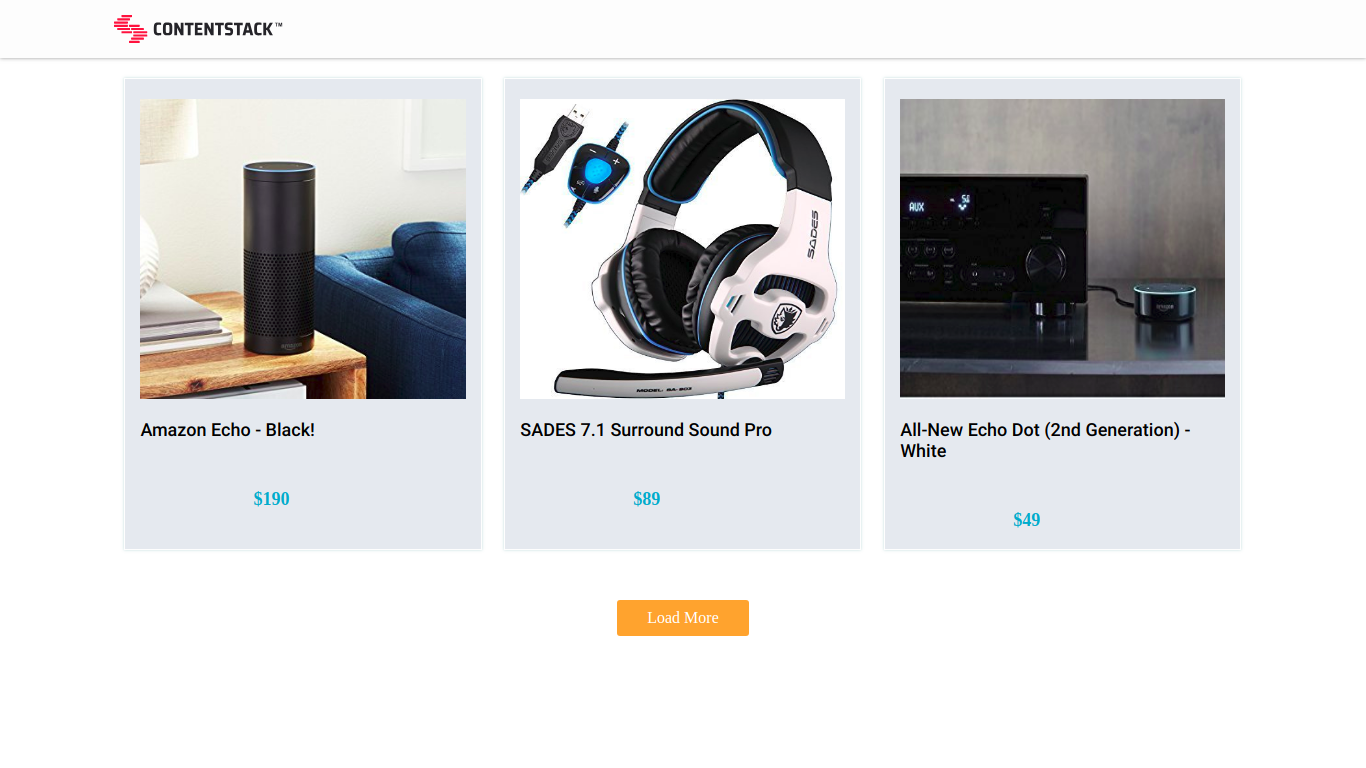
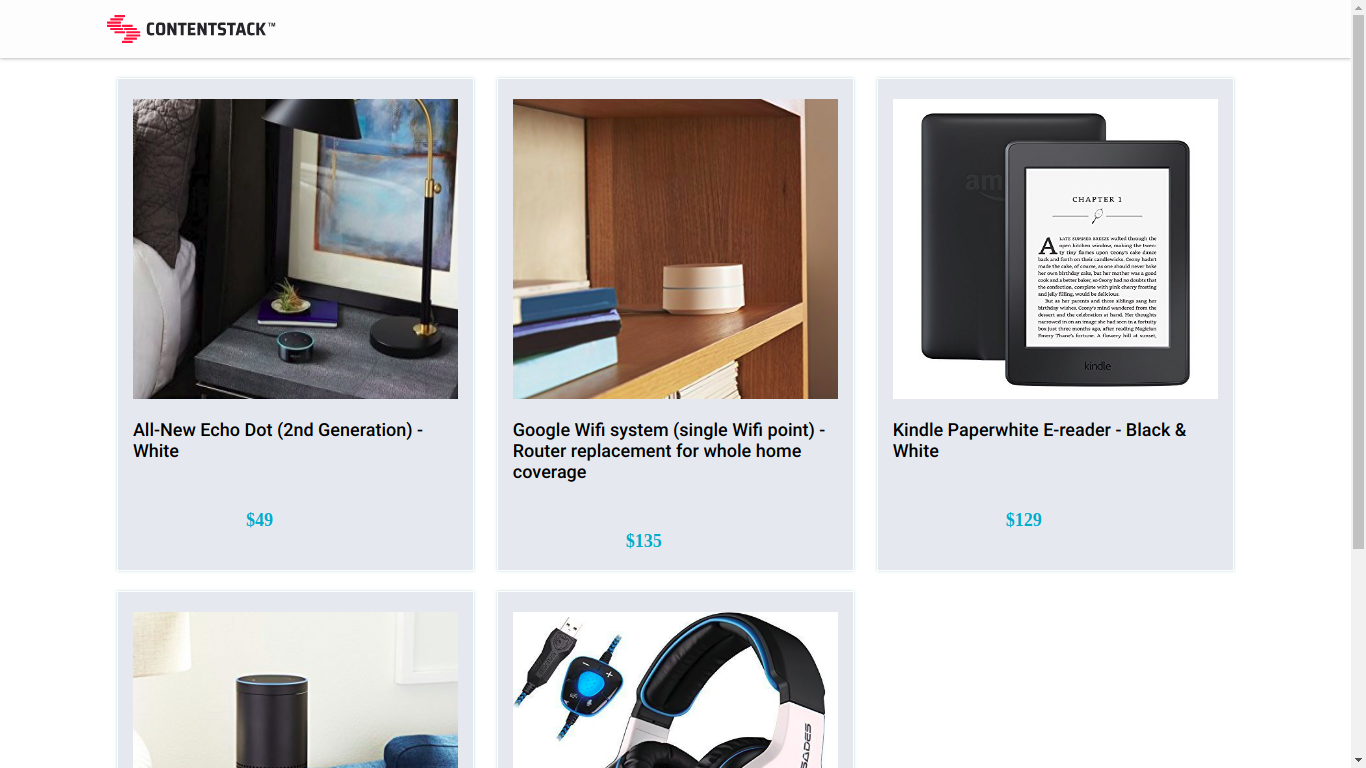
updated the README

diff --git a/app.js b/app.js
@@ -6,11 +6,11 @@ var { InMemoryCache } = require('apollo-cache-inmemory');
 var { HttpLink } = require('apollo-link-http');
 var  gql  = require("graphql-tag");
 var fetch = require('node-fetch');
-const port = process.env.PORT ||5000
+const port = process.env.PORT || 8000
 
 const cache = new InMemoryCache();
 const link = new HttpLink({
-  uri: 'https://dev-graphql.contentstack.io/stacks/***REMOVED***/explore?access_token=***REMOVED***&environment=production',
+  uri: "https://graphql.contentstack.com/stacks/blt292960b854e5170e?access_token=csf77a123fda5cc627a0363a49&environment=development",
   fetch
 })
 const client = new ApolloClient({
@@ -43,6 +43,7 @@ client
   } }`
   })
   .then(result =>{
+   // console.log("endpoint>>>>>>>>>", JSON.stringify(result, null, 0))
     res.render('./home', result)
   })
 );

diff --git a/views/js/script.js b/views/js/script.js
@@ -1,13 +1,12 @@
 $( document ).ready(function () {
     
-    $(".row li").slice(0, 3).show();
-        
+    // $(".row li").slice(0, 3).show();
 
-      $("#loadMore").on('click', function (e) {
-        e.preventDefault();
-        $(".row li:hidden").slice(0, 3).show();
-        if ($(".row li:hidden").length == 0) {
-          $("#loadMore").fadeOut('slow');
-        }
-      });
+    //   $("#loadMore").on('click', function (e) {
+    //     e.preventDefault();
+    //     $(".row li:hidden").slice(0, 3).show();
+    //     if ($(".row li:hidden").length == 0) {
+    //       $("#loadMore").fadeOut('slow');
+    //     }
+    //   });
     });

diff --git a/views/home.html b/views/home.html
@@ -68,9 +68,9 @@
 				</div>	
 			</div>	
 		</div> -->
-		<div id="loadMore" style="">
+		<!-- <div id="loadMore" style="">
 			<a href="#">Load More</a>
-		</div>	
+		</div>	 -->
 	</div>	
 </body>
 </html>

diff --git a/views/css/css/main.css b/views/css/css/main.css
@@ -152,7 +152,7 @@ a {
 }
 
 .row li {
- display: none;
+ display: block;
 }
 
 header {

diff --git a/README.md b/README.md
@@ -2,9 +2,9 @@
 
 # Build an example app using Contentstack GraphQL and Apollo Javascript SDK
 
-Apollo Javascript is strongly-typed, caching GraphQL client for javascript apps. It lets you execute queries against a GraphQL server by integrating a GraphQL client library that handles sending GraphQL queries and parsing the corresponding responses.
+We have created a sample product catalog app that is built using Contentstack’s iOS SDK. The content of this app is powered by Contentstack GraphQL APIs, and the app uses Apollo client on the client side to consume GraphQL APIs.
 
-This is an example app built using Contentstack GraphQL with Apollo javascript SDK. You can try out and play with this example app, before building bigger and better applications.
+This document covers the steps to get this app up and running for you. Try out the app and play with it, before building bigger and better applications.
 
 Perform the steps given below to get started with this app.
 
@@ -52,7 +52,9 @@ Begin by including packages that are essential for building the Apollo app. Inst
  -   [Graphql-tag](https://www.npmjs.com/package/graphql-tag)
 
 ## Step 7: Add modules in server file to invoke Apollo
-In order to invoke Apollo as part of the JavaScript, add the following modules to the server file, app.js. The modules include express and express-nunjucks module for routing and templating:
+In order to invoke Apollo as part of the JavaScript and for routing and templating purpose, add the  express and express-nunjucks modules to the server file, app.js
+
+Add the ‘apollo-client’ and ‘apollo-cache-inmemory’ parameters in ‘apollo-client’ instance. 
 
 ```
 const express = require('express');
@@ -66,7 +68,7 @@ var fetch = require('node-fetch');
 ```
 
 ## step 8: Create an Apollo Client
-Create a single shared instance of 'Apollo-link' and point it at your GraphQL server. Add the ‘apollo-client’ and ‘apollo-memory’ parameters in ‘apollo-client’ instance. Under the HttpLink module instance, set the URL of GraphQL schema under the uri parameter and use fetch to fetch the data from graphql API.
+Create a single shared instance of 'Apollo-link' and point it at your GraphQL server. Under the HttpLink module instance, set the URL of GraphQL schema under the uri parameter and use fetch to fetch the data from graphql API.
 
 ```
 const cache = new InMemoryCache();
@@ -85,7 +87,7 @@ const client = new ApolloClient({
 
 Contentstack provides a GraphQL playground, which is a GraphiQL interface, to test your GraphQL queries in your browser. Use this interface to write and test your queries.
 
-Open a browser of your choice and hit the URL given below after inserting api_key, access_token, environment in url:
+Open a browser of your choice and hit the URL given below:
 ```
 https://graphql.contentstack.io/stacks/api_key/explore?access_token=environment-specific_delivery_token&environment=environment_name
   ```
